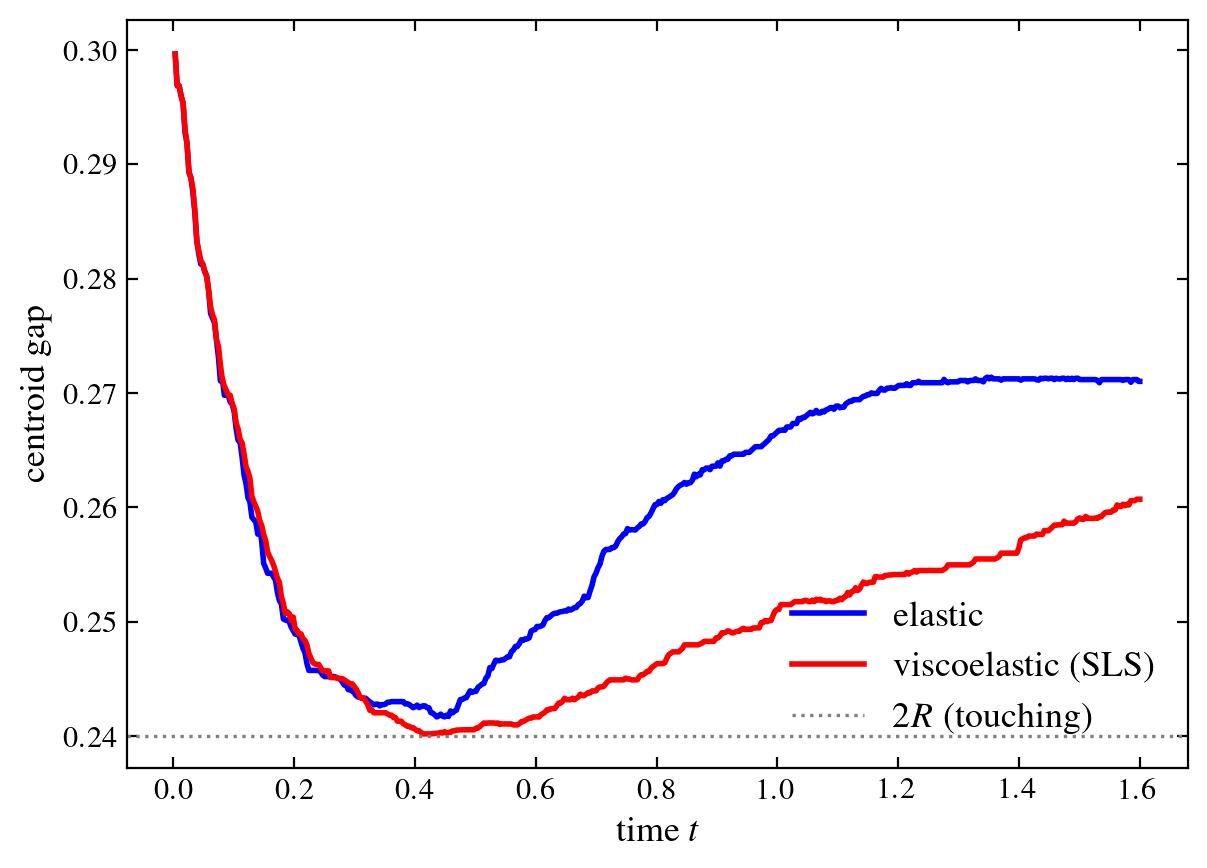
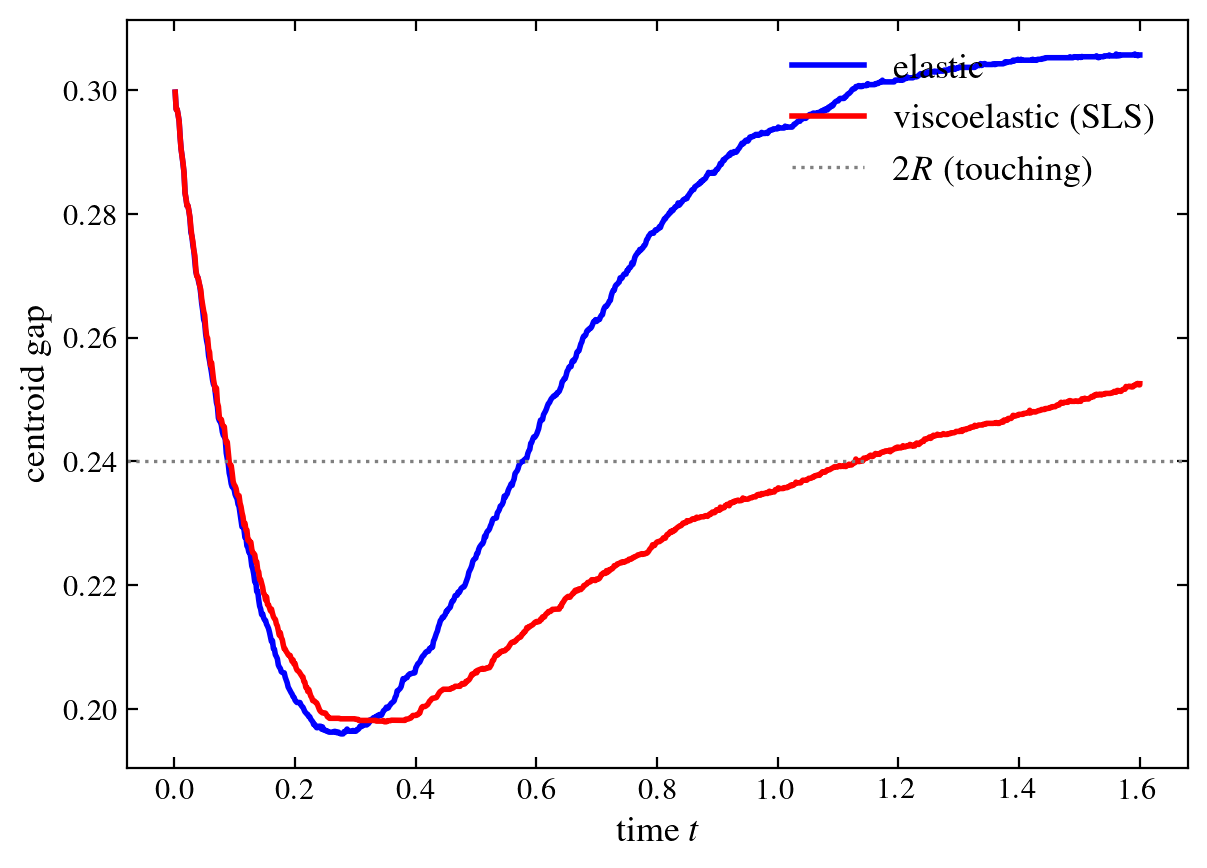
contact: stronger impact (V0=1.2) so the discs visibly deform
Gap now dips well below 2R (discs flatten at contact); elastic recovers
and separates while the viscoelastic SLS discs dissipate the impact and
rebound weakly (lower effective restitution). Figures regenerated IMEX,
caption reframed.

diff --git a/benchmarks/contact_figure.py b/benchmarks/contact_figure.py
@@ -10,7 +10,7 @@ sys.path.insert(0, os.path.dirname(os.path.dirname(os.path.abspath(__file__))))
 from benchmarks.contact_collision import run
 
 ROOT = os.path.dirname(os.path.dirname(os.path.abspath(__file__)))
-N, T, V0, MUF, ETA, SEP, R = 128, 1.6, 0.6, 0.005, 2.0, 0.30, 0.12
+N, T, V0, MUF, ETA, SEP, R = 128, 1.6, 1.2, 0.005, 2.0, 0.30, 0.12
 GTOT = 0.8
 EL = dict(model="elastic", mu_s=GTOT)
 VE = dict(model="sls", mu_s=0.2, G_ve=0.6, tau=0.2)
@@ -22,31 +22,23 @@ def main():
     from _plotstyle import apply as _style; _style()
     import matplotlib.pyplot as plt
 
-    common = dict(N=N, t_end=T, V0=V0, mu_f=MUF, eta=ETA, sep=SEP, R=R)
-    runs = {
-        ("elastic", "explicit"): run(**EL, integrator="explicit", **common),
-        ("elastic", "imex"):     run(**EL, integrator="imex", **common),
-        ("sls", "explicit"):     run(**VE, integrator="explicit", **common),
-        ("sls", "imex"):         run(**VE, integrator="imex", **common),
-    }
-    np.savez(os.path.join(ROOT, "outputs", "overlay", "contact_collision.npz"),
-             **{f"{m}_{i}": h for (m, i), h in runs.items()})
+    common = dict(N=N, t_end=T, V0=V0, mu_f=MUF, eta=ETA, sep=SEP, R=R, integrator="imex")
+    runs = {"elastic": run(**EL, **common), "sls": run(**VE, **common)}
+    np.savez(os.path.join(ROOT, "outputs", "overlay", "contact_collision.npz"), **runs)
 
     # ---- gap vs time: elastic vs viscoelastic (IMEX; the explicit comparison is in the supp) ----
     fig, ax = plt.subplots(figsize=(6.2, 4.5))
-    ax.plot(runs[("elastic", "imex")][:, 0], runs[("elastic", "imex")][:, 3], "-",
-            color="blue", lw=2.0, label="elastic")
-    ax.plot(runs[("sls", "imex")][:, 0], runs[("sls", "imex")][:, 3], "-",
-            color="red", lw=2.0, label="viscoelastic (SLS)")
+    ax.plot(runs["elastic"][:, 0], runs["elastic"][:, 3], "-", color="blue", lw=2.0, label="elastic")
+    ax.plot(runs["sls"][:, 0], runs["sls"][:, 3], "-", color="red", lw=2.0, label="viscoelastic (SLS)")
     ax.axhline(2 * R, color="0.5", ls=":", lw=1.2, label=r"$2R$ (touching)")
     ax.set_xlabel("time $t$"); ax.set_ylabel("centroid gap")
-    ax.legend(loc="lower right"); fig.tight_layout()
+    ax.legend(loc="upper right"); fig.tight_layout()
     fig.savefig(os.path.join(ROOT, "paper", "figures", "contact_collision.png"), dpi=200)
     print("saved contact_collision.png")
 
     # ---- snapshot montage: the discs colliding in the fluid ----
-    times = [0.15, 0.35, 0.55, 0.90, 1.40]
-    _, snaps = run(**EL, integrator="explicit", snap_times=times, **common)
+    times = [0.15, 0.30, 0.42, 0.70, 1.20]
+    _, snaps = run(**EL, snap_times=times, **common)
     fig, axes = plt.subplots(1, len(snaps), figsize=(2.3 * len(snaps), 2.6))
     for ax, s in zip(np.atleast_1d(axes), snaps):
         xc = s["Xc"][0, :]; yc = s["Yc"][:, 0]

diff --git a/paper/main.tex b/paper/main.tex
@@ -1012,9 +1012,11 @@ rebound. The fluid between the discs is squeezed out as they meet.}
 
 \begin{figure}[t]\centering
 \includegraphics[width=0.6\linewidth]{figures/contact_collision.png}
-\caption{Colliding discs, centroid gap vs.\ time at matched total modulus. The discs deform into
-contact (gap below $2R$) and rebound; the elastic discs (blue) rebound more than the viscoelastic
-SLS discs (red), whose Maxwell branch dissipates collision energy.}
+\caption{Colliding discs, centroid gap vs.\ time at matched total modulus. The discs deform
+strongly into contact (the gap dips well below $2R$ as they flatten against each other) and
+rebound; the elastic discs (blue) recover and separate, whereas the viscoelastic SLS discs (red)
+dissipate the collision energy in the Maxwell branch and rebound weakly---a lower effective
+coefficient of restitution.}
 \label{fig:contact}
 \end{figure}
 
